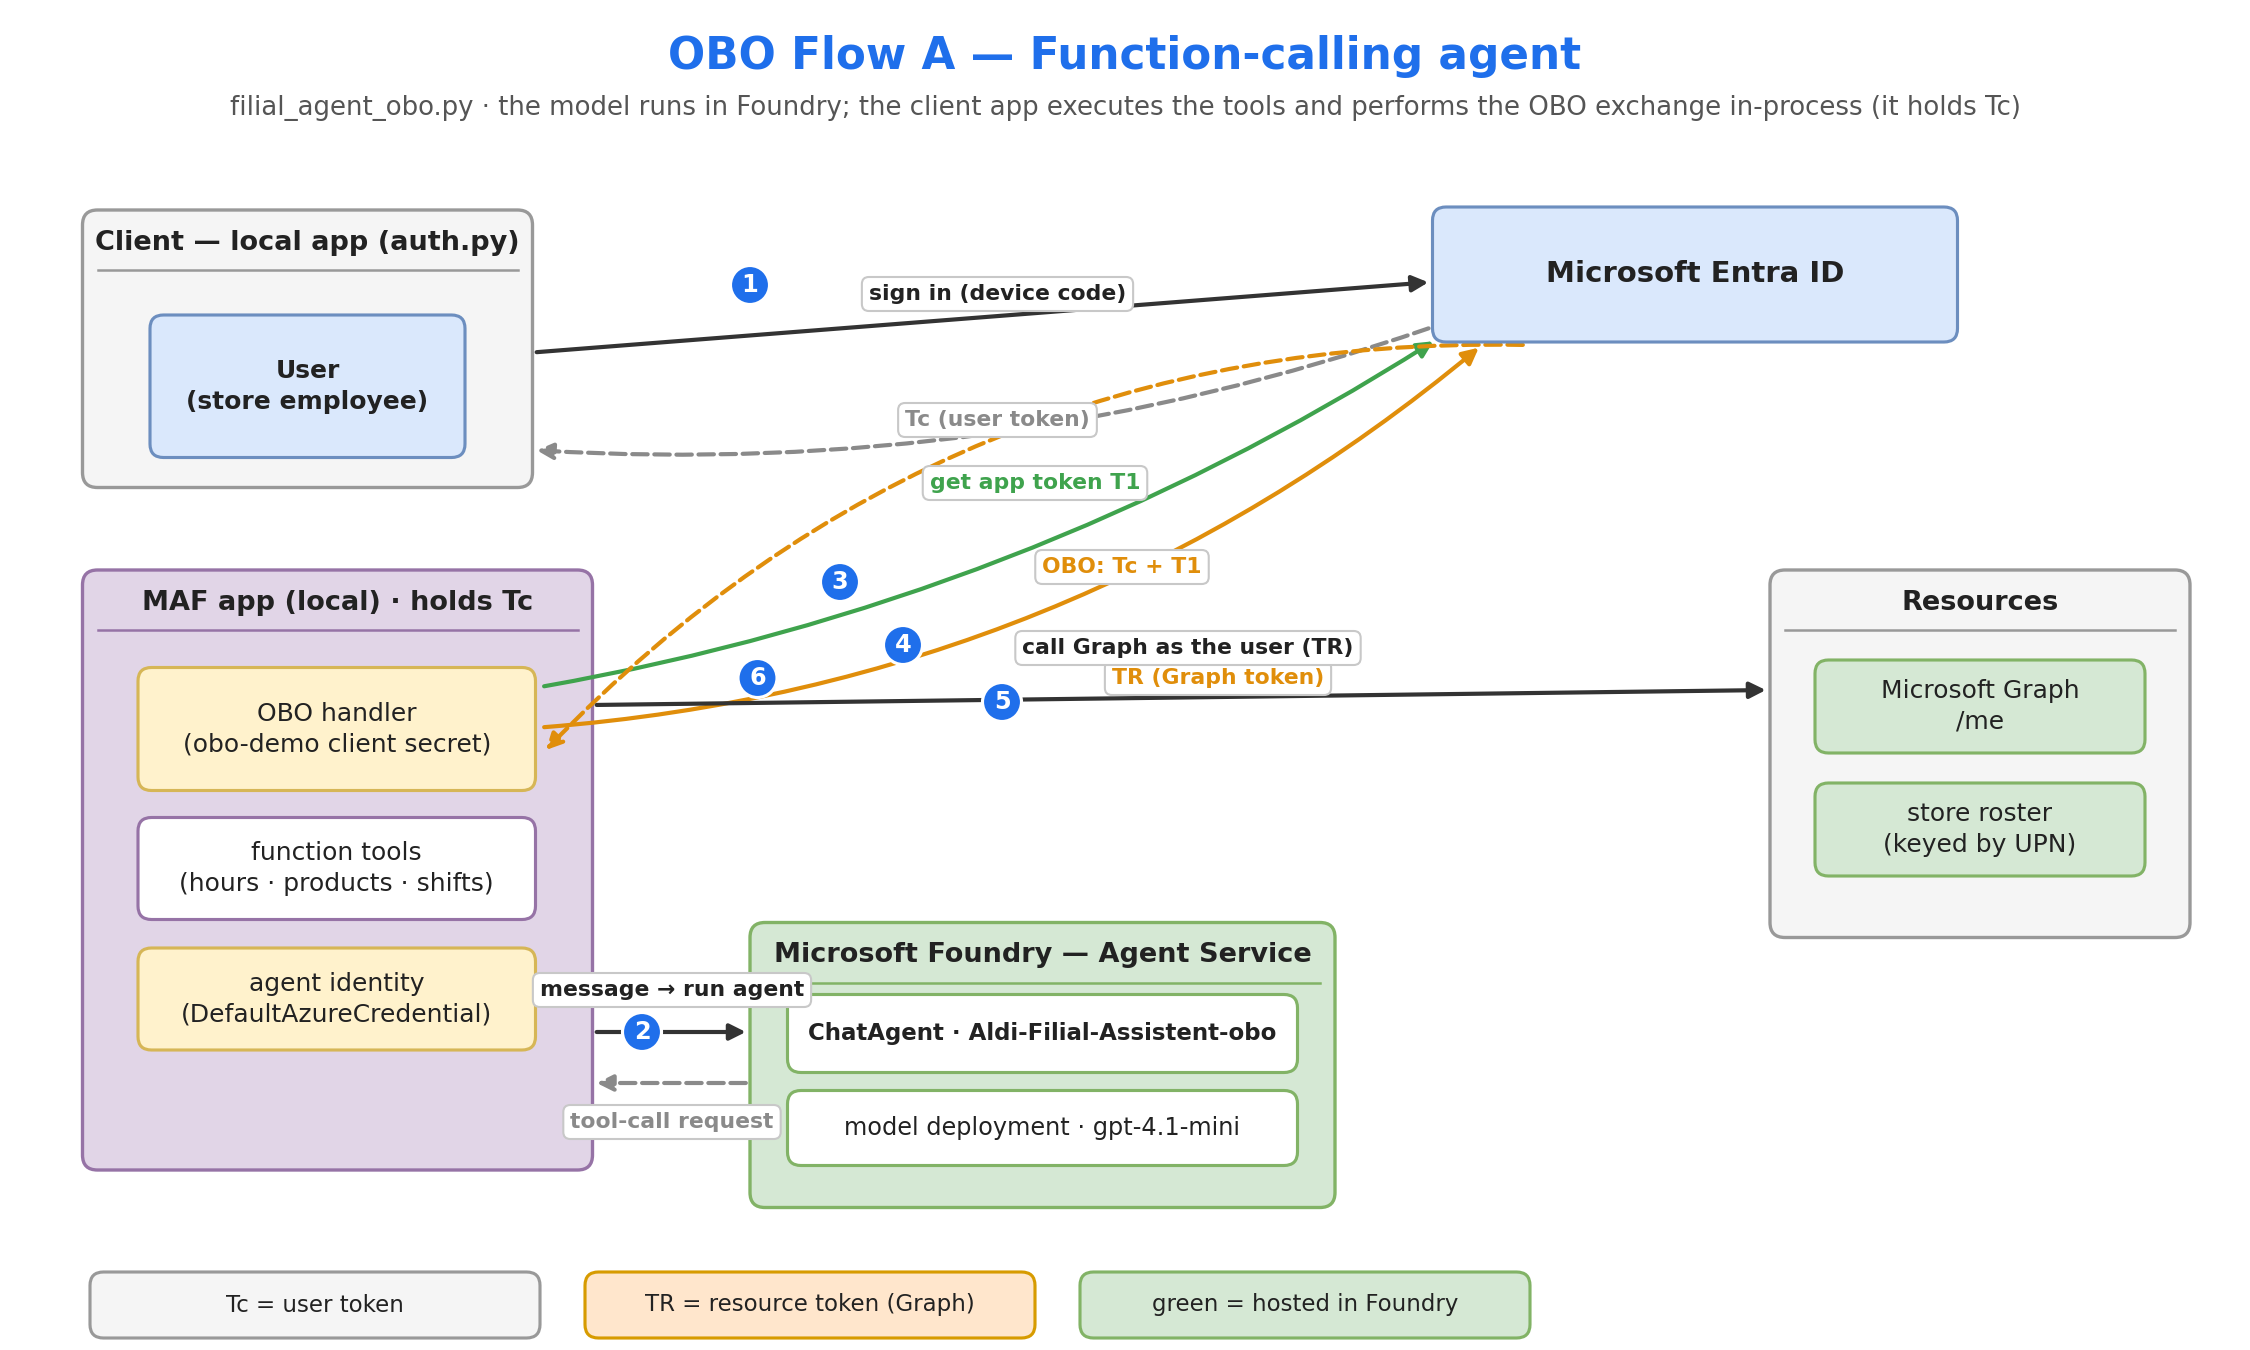
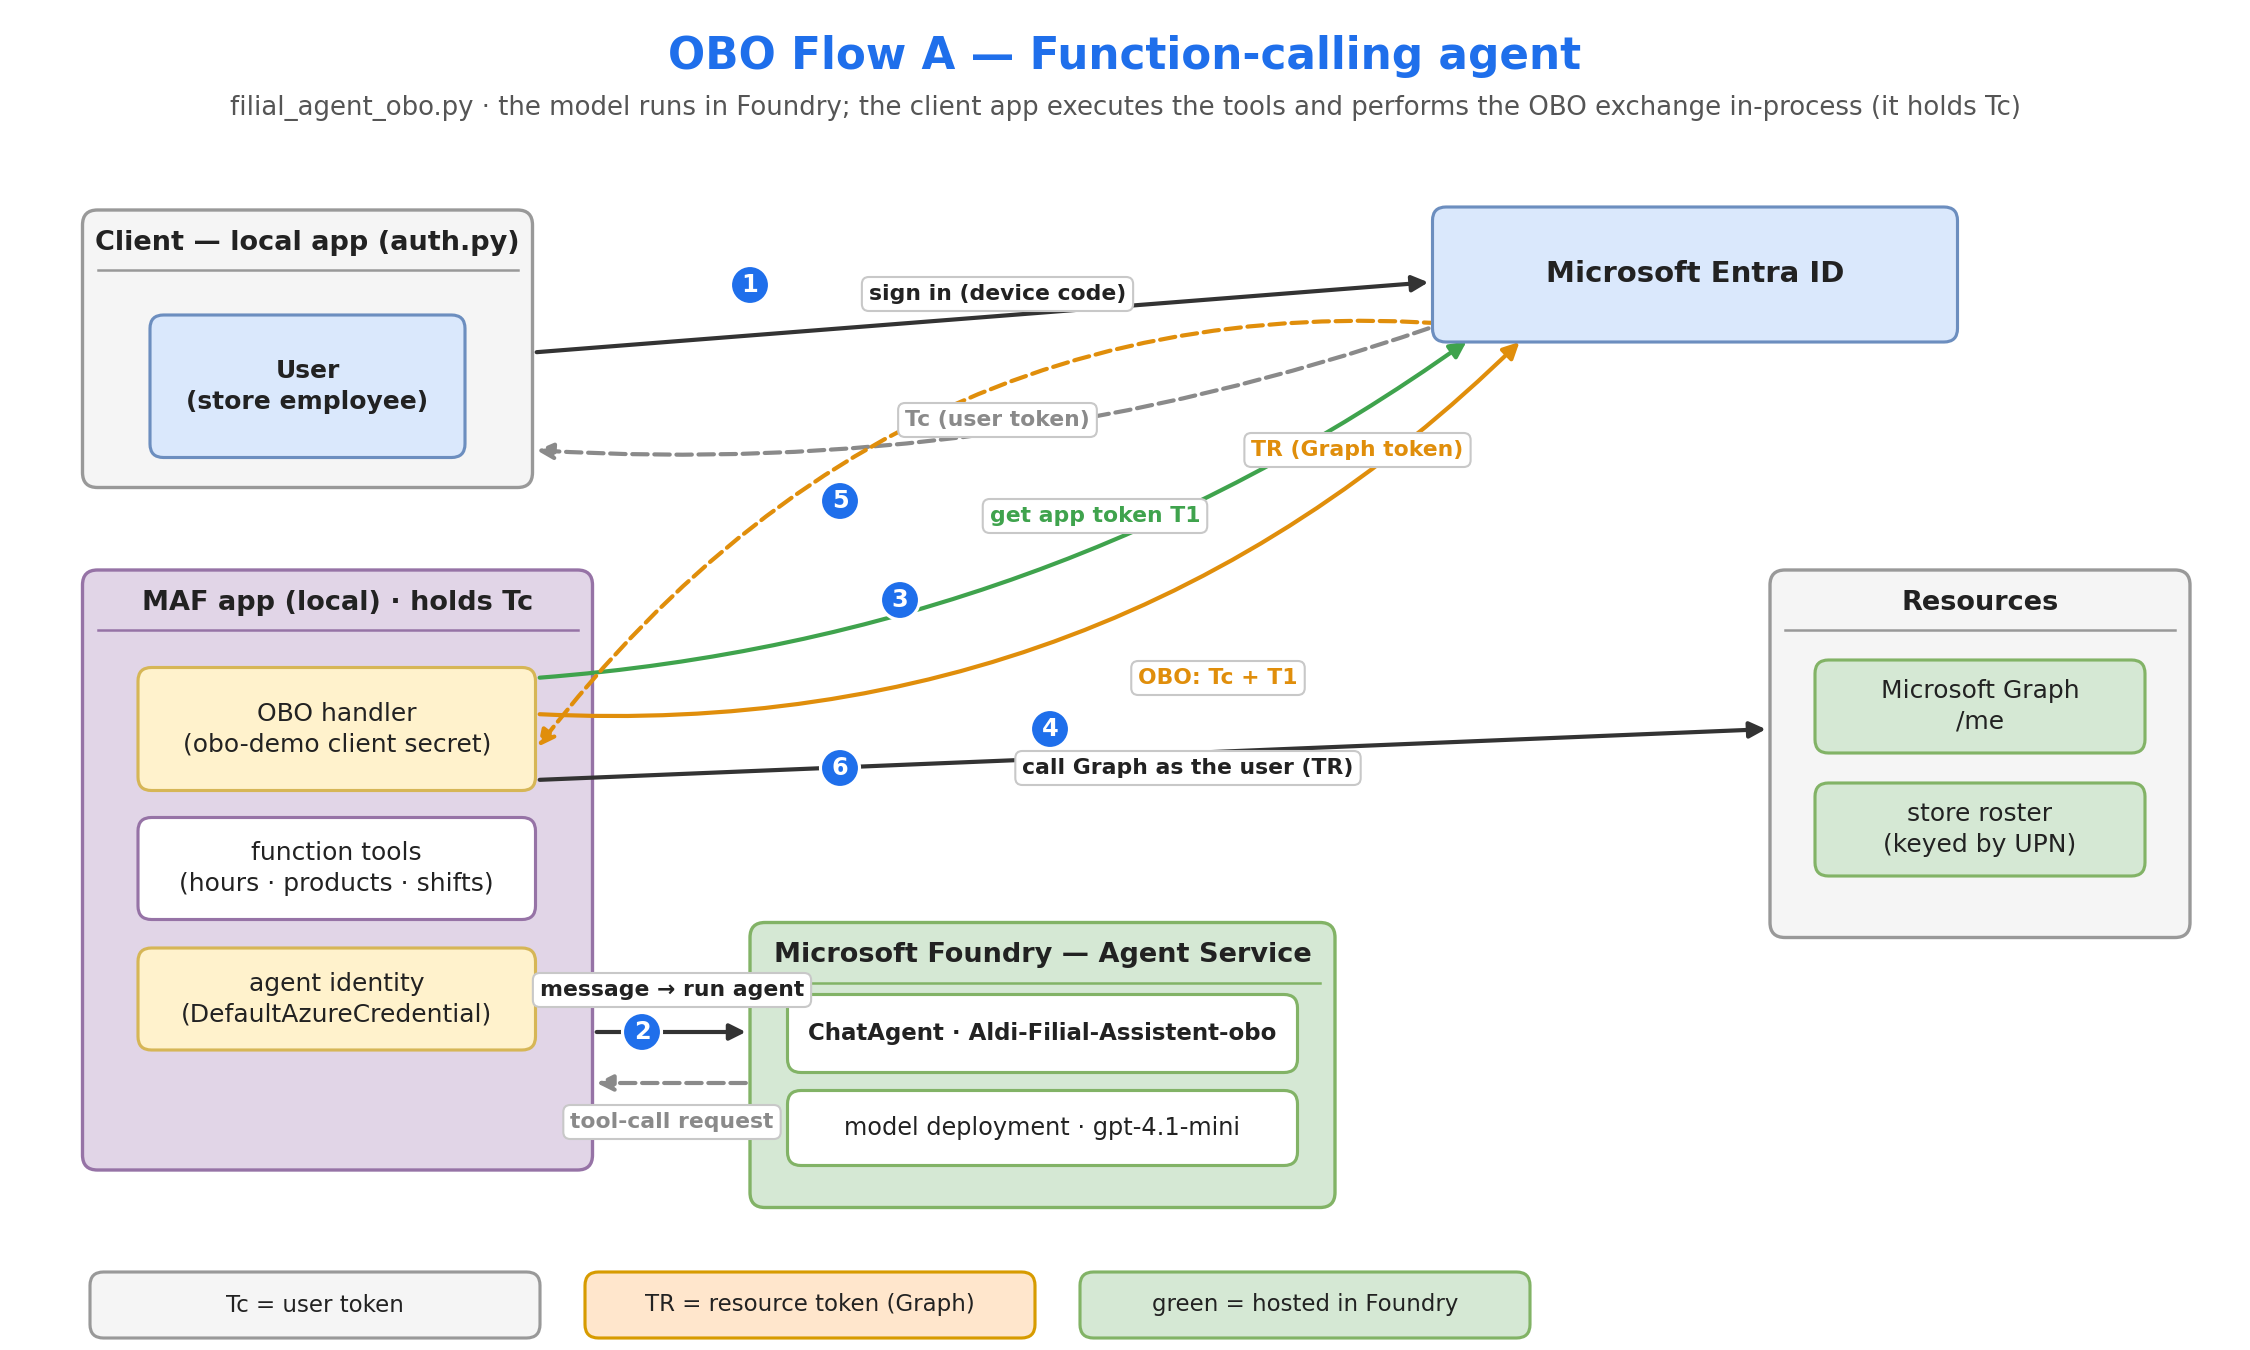
Clean up OBO Flow A diagram arrows for readability
Restructure the token-exchange arrows into an evenly spaced fan, separate the call-Graph step below it, and de-cluster the step badges. Regenerate flow-a PNG.

Changed region(s): [[0.2178, 0.2489, 0.7778, 0.5911], [0.5289, 0.2178, 0.5911, 0.28], [0.4667, 0.2489, 0.4978, 0.28]]

diff --git a/docs/diagrams/build_diagrams.py b/docs/diagrams/build_diagrams.py
@@ -157,21 +157,24 @@ def flow_a(ax):
     arrow(ax, (500, 722), (395, 722), color=C_DASH, dashed=True, rad=-0.0)
     chip(ax, 448, 748, "tool-call request", tc=C_DASH)
 
-    # OBO exchange (client <-> Entra), across the open top-middle
-    arrow(ax, (360, 458), (958, 226), color=C_T1, rad=0.10)
-    chip(ax, 690, 322, "get app token T1", tc=C_T1)
-    badge(ax, 560, 388, 3)
-    arrow(ax, (360, 485), (988, 230), color=C_OBO, rad=0.16)
-    chip(ax, 748, 378, "OBO: Tc + T1", tc=C_OBO)
-    badge(ax, 602, 430, 4)
-    arrow(ax, (1018, 230), (362, 502), color=C_OBO, dashed=True, rad=0.22)
-    chip(ax, 812, 452, "TR (Graph token)", tc=C_OBO)
-    badge(ax, 668, 468, 5)
+    # OBO token exchange (client <-> Entra) — a clean nested fan across the
+    # open middle: 3) request app token T1, 4) send OBO exchange, 5) receive TR.
+    arrow(ax, (357, 452), (980, 226), color=C_T1, rad=0.14)
+    chip(ax, 730, 344, "get app token T1", tc=C_T1)
+    badge(ax, 600, 400, 3)
 
-    # call Graph as the user
-    arrow(ax, (395, 470), (1180, 460))
-    chip(ax, 792, 432, "call Graph as the user (TR)")
-    badge(ax, 505, 452, 6)
+    arrow(ax, (357, 476), (1015, 226), color=C_OBO, rad=0.22)
+    chip(ax, 812, 452, "OBO: Tc + T1", tc=C_OBO)
+    badge(ax, 700, 486, 4)
+
+    arrow(ax, (1050, 226), (357, 500), color=C_OBO, dashed=True, rad=0.30)
+    chip(ax, 905, 300, "TR (Graph token)", tc=C_OBO)
+    badge(ax, 560, 334, 5)
+
+    # 6) call Graph as the user — straight, kept clear below the token fan.
+    arrow(ax, (357, 520), (1180, 486))
+    chip(ax, 792, 512, "call Graph as the user (TR)")
+    badge(ax, 560, 512, 6)
 
     legend(ax)
 